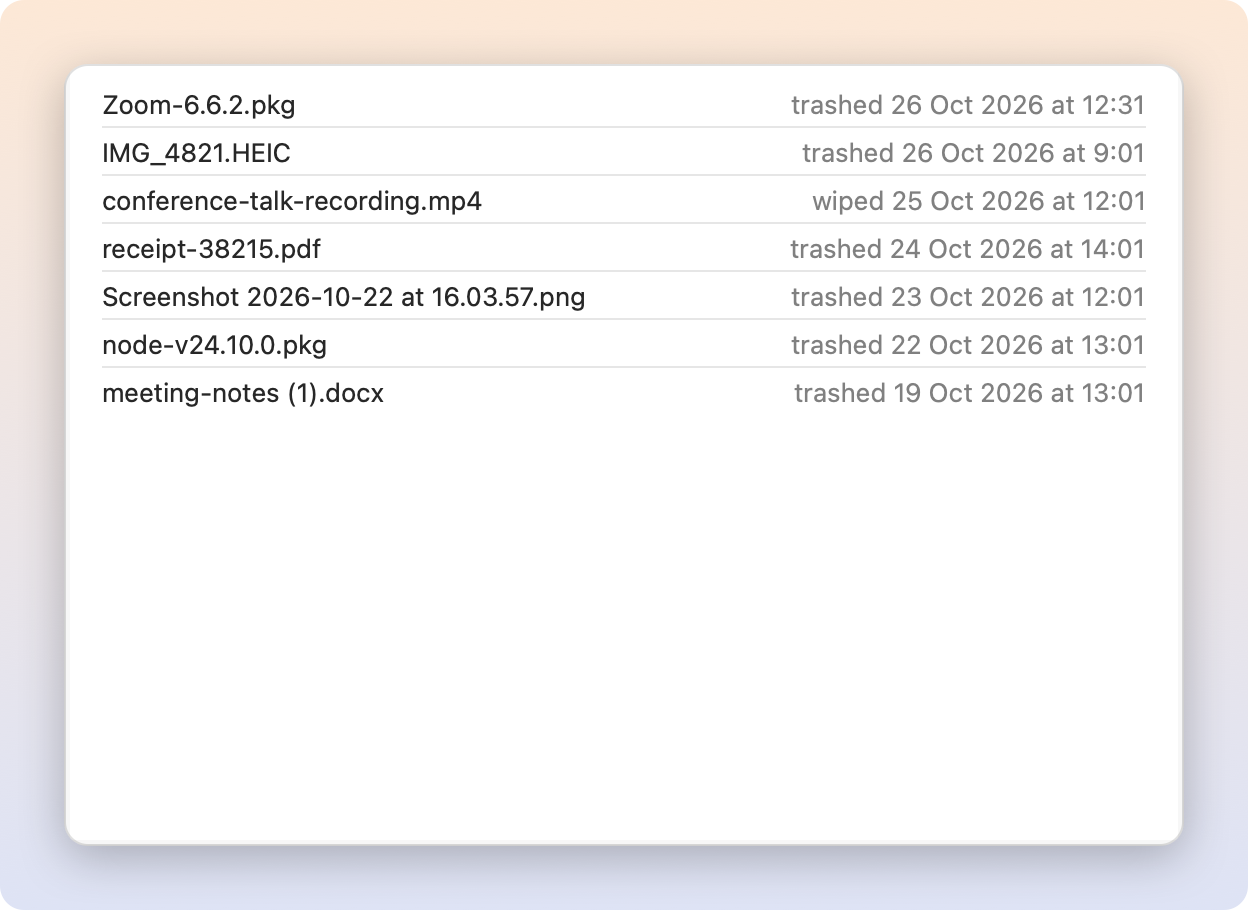
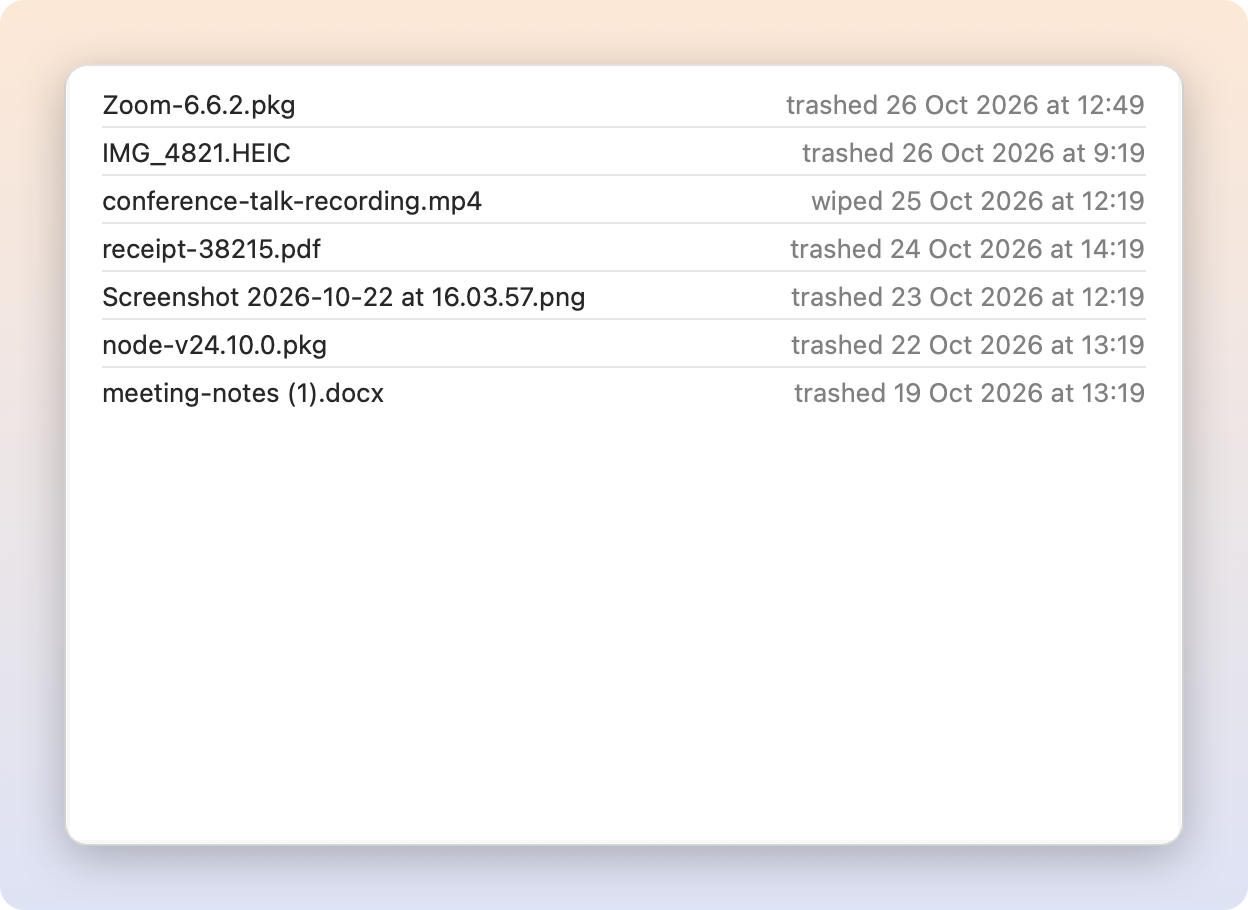
feat(toast): Expire in 15m second button, double-tap Shift to keep

diff --git a/Sources/BurndownCore/Models.swift b/Sources/BurndownCore/Models.swift
@@ -101,10 +101,13 @@ public struct ScopeDefaults: Codable, Sendable, Equatable {
 }
 
 public enum SecondButton: String, Codable, Sendable, CaseIterable {
-    case expireNow, snooze, reveal
+    case expireSoon, expireNow, snooze, reveal
 
+    /// Name in the settings picker. The toast label for `.expireSoon` includes the minutes, see
+    /// `BurndownSettings.secondButtonLabel`.
     public var defaultLabel: String {
         switch self {
+        case .expireSoon: "Expire soon"
         case .expireNow: "Expire now"
         case .snooze: "Snooze"
         case .reveal: "Reveal"
@@ -120,13 +123,26 @@ public struct BurndownSettings: Codable, Sendable, Equatable {
     /// 0 = never auto-dismiss.
     public var toastSeconds: Double = 8
     public var keepLabel = "Keep"
-    public var secondButton = SecondButton.expireNow
+    public var secondButton = SecondButton.expireSoon
     public var secondLabel: String?
     public var snoozeDays: Double = 7
+    /// What "Expire soon" shortens a file's remaining time to.
+    public var expireSoonMinutes: Double = 15
+    /// Double-tap Shift while a toast is showing to keep the newest file.
+    public var shiftKeeps = true
     /// Show the screenshot toast when the thumbnail appears rather than when the file is written.
     public var screenshotEarlyToast = true
 
     public init() {}
+
+    /// Text for the toast's second button: the custom label, else one that reflects the action.
+    public var secondButtonLabel: String {
+        if let secondLabel, !secondLabel.isEmpty { return secondLabel }
+        guard secondButton == .expireSoon else { return secondButton.defaultLabel }
+        let m = Int(expireSoonMinutes.rounded())
+        let span = m >= 60 ? (m % 60 == 0 ? "\(m / 60)h" : "\(m / 60)h \(m % 60)m") : "\(m)m"
+        return "Expire in \(span)"
+    }
 
     // Every key is optional so state saved by an older version still loads.
     public init(from decoder: Decoder) throws {
@@ -139,8 +155,12 @@ public struct BurndownSettings: Codable, Sendable, Equatable {
         toastSeconds = try c.decodeIfPresent(Double.self, forKey: .toastSeconds) ?? d.toastSeconds
         keepLabel = try c.decodeIfPresent(String.self, forKey: .keepLabel) ?? d.keepLabel
         secondButton = try c.decodeIfPresent(SecondButton.self, forKey: .secondButton) ?? d.secondButton
+        // State saved before "Expire in N minutes" existed used "Expire now" as its default; move it over.
+        if secondButton == .expireNow, !c.contains(.expireSoonMinutes) { secondButton = .expireSoon }
         secondLabel = try c.decodeIfPresent(String.self, forKey: .secondLabel)
         snoozeDays = try c.decodeIfPresent(Double.self, forKey: .snoozeDays) ?? d.snoozeDays
+        expireSoonMinutes = try c.decodeIfPresent(Double.self, forKey: .expireSoonMinutes) ?? d.expireSoonMinutes
+        shiftKeeps = try c.decodeIfPresent(Bool.self, forKey: .shiftKeeps) ?? d.shiftKeeps
         screenshotEarlyToast = try c.decodeIfPresent(Bool.self, forKey: .screenshotEarlyToast) ?? d.screenshotEarlyToast
     }
 

diff --git a/Sources/Burndown/AppModel.swift b/Sources/Burndown/AppModel.swift
@@ -12,6 +12,7 @@ final class AppModel {
         didSet {
             persist()
             let old = oldValue.settings, new = state.settings
+            ToastCenter.shared.shiftKeeps = new.shiftKeeps
             if old.screenshots.enabled != new.screenshots.enabled
                 || old.screenshotEarlyToast != new.screenshotEarlyToast { syncScreenshots() }
             if old.paused && !new.paused { expireDue() }
@@ -58,6 +59,7 @@ final class AppModel {
     }
 
     func start() {
+        ToastCenter.shared.shiftKeeps = state.settings.shiftKeeps
         let watcher = DownloadsWatcher(directory: downloadsDir) { [weak self] url in
             self?.track(url, scope: .download)
         }
@@ -128,7 +130,7 @@ final class AppModel {
             placeholder: "📸",
             message: "\(name) will be \(action.pastTense) after \(life.phrase)",
             keepLabel: s.keepLabel,
-            secondLabel: s.secondLabel ?? s.secondButton.defaultLabel,
+            secondLabel: s.secondButtonLabel,
             dismissAfter: s.toastSeconds,
             onKeep: { [weak self] in self?.resolveShot(id, .keep) },
             onSecond: { [weak self] in self?.resolveShot(id, .second) }))
@@ -152,7 +154,7 @@ final class AppModel {
 
     private func showToast(for item: TrackedItem, lifetime: Lifetime) {
         let s = state.settings
-        let secondLabel = s.secondLabel ?? s.secondButton.defaultLabel
+        let secondLabel = s.secondButtonLabel
         let url = URL(fileURLWithPath: item.path)
         let handle = ToastCenter.shared.show(ToastModel(
             fileURL: url,
@@ -179,7 +181,7 @@ final class AppModel {
             fileURL: file,
             message: "\(file.lastPathComponent) will be \(d.action.pastTense) after \(d.lifetime.phrase)",
             keepLabel: s.keepLabel,
-            secondLabel: s.secondLabel ?? s.secondButton.defaultLabel,
+            secondLabel: s.secondButtonLabel,
             dismissAfter: s.toastSeconds,
             onKeep: {},
             onSecond: {}))
@@ -199,6 +201,7 @@ final class AppModel {
 
     func secondAction(_ id: UUID) {
         switch state.settings.secondButton {
+        case .expireSoon: expireSoon(id)
         case .expireNow: expireNow(id)
         case .snooze: snooze(id)
         case .reveal: reveal(id)
@@ -217,6 +220,14 @@ final class AppModel {
             guard alert.runModal() == .alertFirstButtonReturn else { return }
         }
         process(item, reason: "expired now")
+    }
+
+    /// Shortens the file's remaining time to the configured number of minutes (never lengthens it).
+    func expireSoon(_ id: UUID) {
+        guard let i = state.items.firstIndex(where: { $0.id == id }) else { return }
+        let soon = Date().addingTimeInterval(state.settings.expireSoonMinutes * 60 / Self.timeScale)
+        state.items[i].due = min(state.items[i].due ?? .distantFuture, soon)
+        rearm()
     }
 
     func snooze(_ id: UUID) {

diff --git a/Sources/Burndown/Toast/ToastPanel.swift b/Sources/Burndown/Toast/ToastPanel.swift
@@ -30,6 +30,9 @@ final class ToastCenter {
     static let spacing: CGFloat = -8
 
     private var toasts: [Toast] = []
+    /// Double-tap Shift keeps the newest toast's file; set from settings.
+    var shiftKeeps = true
+    private var shiftWatcher: Task<Void, Never>?
 
     private init() {}
 
@@ -41,6 +44,7 @@ final class ToastCenter {
             dismiss(oldest, relayout: false)
         }
         layout(appearing: toast)
+        startShiftWatcher()
         return ToastHandle(setPreview: { [weak toast] image in toast?.preview.image = image })
     }
 
@@ -49,6 +53,38 @@ final class ToastCenter {
         toasts.remove(at: i)
         toast.close()
         if relayout { layout(appearing: nil) }
+        if toasts.isEmpty { shiftWatcher?.cancel(); shiftWatcher = nil }
+    }
+
+    /// Watches for a double tap of Shift, but only while a toast is on screen. The current modifier
+    /// state can be read without any permission, so this polls briefly instead of installing a global
+    /// key monitor (which would need Input Monitoring).
+    private func startShiftWatcher() {
+        guard shiftWatcher == nil else { return }
+        shiftWatcher = Task { @MainActor [weak self] in
+            var shiftDown = false
+            var lastPress: Date?
+            while !Task.isCancelled {
+                try? await Task.sleep(for: .milliseconds(25))
+                guard let self, self.shiftKeeps else { continue }
+                let flags = NSEvent.modifierFlags.intersection(.deviceIndependentFlagsMask)
+                if flags != [] && flags != [.shift] { lastPress = nil; shiftDown = false; continue }
+                let down = flags == [.shift]
+                guard down != shiftDown else { continue }
+                shiftDown = down
+                guard down else { continue }
+                let now = Date()
+                if let last = lastPress, now.timeIntervalSince(last) < 0.45,
+                   // No key was typed between the two taps, so this is not capitalisation.
+                   CGEventSource.secondsSinceLastEventType(.combinedSessionState, eventType: .keyDown)
+                    > now.timeIntervalSince(last) {
+                    lastPress = nil
+                    self.toasts.first?.keepFromShortcut()
+                } else {
+                    lastPress = now
+                }
+            }
+        }
     }
 
     private func layout(appearing: Toast?) {
@@ -130,6 +166,8 @@ private final class Toast {
             panel.close()
         }
     }
+
+    func keepFromShortcut() { finish(model.onKeep) }
 
     private func finish(_ action: (@MainActor () -> Void)?) {
         action?()

diff --git a/Sources/Burndown/Settings/SettingsView.swift b/Sources/Burndown/Settings/SettingsView.swift
@@ -27,6 +27,9 @@ private struct GeneralTab: View {
         Form {
             Toggle("Launch at login", isOn: $model.launchAtLogin)
             Toggle("Pause tracking", isOn: $model.settings.paused)
+            Toggle("Double-tap Shift to keep", isOn: $model.settings.shiftKeeps)
+            Text("While a toast is showing, tapping Shift twice keeps the newest file.")
+                .font(.caption).foregroundStyle(.secondary)
 
             Section("Toast") {
                 Picker("Auto-dismiss", selection: $model.settings.toastSeconds) {
@@ -40,7 +43,11 @@ private struct GeneralTab: View {
                 TextField("Second button label", text: Binding(
                     get: { model.settings.secondLabel ?? "" },
                     set: { model.settings.secondLabel = $0.isEmpty ? nil : $0 }),
-                    prompt: Text(model.settings.secondButton.defaultLabel))
+                    prompt: Text(model.settings.secondButtonLabel))
+                if model.settings.secondButton == .expireSoon {
+                    Stepper("Expire in \(Int(model.settings.expireSoonMinutes)) minutes",
+                            value: $model.settings.expireSoonMinutes, in: 1...720, step: 5)
+                }
                 if model.settings.secondButton == .snooze {
                     Stepper("Snooze by \(Int(model.settings.snoozeDays)) days",
                             value: $model.settings.snoozeDays, in: 1...90)

diff --git a/Tests/BurndownCoreTests/CoreTests.swift b/Tests/BurndownCoreTests/CoreTests.swift
@@ -147,6 +147,26 @@ import Testing
         #expect(s.screenshotEarlyToast)
         #expect(s.downloads.lifetime == .days(14))
     }
+
+    @Test func oldExpireNowDefaultMovesToExpireSoon() throws {
+        let old = try JSONDecoder().decode(BurndownSettings.self, from: Data(#"{"secondButton":"expireNow"}"#.utf8))
+        #expect(old.secondButton == .expireSoon)
+        let chosen = try JSONDecoder().decode(
+            BurndownSettings.self, from: Data(#"{"secondButton":"expireNow","expireSoonMinutes":15}"#.utf8))
+        #expect(chosen.secondButton == .expireNow)
+    }
+
+    @Test func secondButtonLabels() {
+        var s = BurndownSettings()
+        #expect(s.secondButtonLabel == "Expire in 15m")
+        s.expireSoonMinutes = 90
+        #expect(s.secondButtonLabel == "Expire in 1h 30m")
+        s.secondLabel = "Bin it"
+        #expect(s.secondButtonLabel == "Bin it")
+        s.secondLabel = nil
+        s.secondButton = .snooze
+        #expect(s.secondButtonLabel == "Snooze")
+    }
 }
 
 @Suite struct PutBackTests {

diff --git a/Sources/Burndown/DocsRender.swift b/Sources/Burndown/DocsRender.swift
@@ -226,7 +226,7 @@ enum DocsRender {
         pdfPreview.image = waitFor { await ImagePreview.thumbnail(of: pdf) }
         pngPreview.image = waitFor { await ImagePreview.thumbnail(of: png) }
         func toast(_ url: URL, _ message: String, _ preview: ToastPreview) -> some View {
-            ToastView(model: ToastModel(fileURL: url, message: message, keepLabel: "Keep", secondLabel: "Expire now",
+            ToastView(model: ToastModel(fileURL: url, message: message, keepLabel: "Keep", secondLabel: "Expire in 15m",
                                         dismissAfter: 8, onKeep: {}, onSecond: {}),
                       hover: ToastHover(), preview: preview, onKeep: {}, onSecond: {}, onClose: {})
                 // The real card is Liquid Glass, which does not render offscreen: stand in a light card.

diff --git a/Sources/Burndown/Toast/ToastView.swift b/Sources/Burndown/Toast/ToastView.swift
@@ -19,7 +19,7 @@ final class ToastPreview {
 struct ToastView: View {
     static let width: CGFloat = 344
     static let radius: CGFloat = 20
-    static let actionWidth: CGFloat = 78
+    static let actionWidth: CGFloat = 92
 
     let model: ToastModel
     let hover: ToastHover
@@ -109,6 +109,7 @@ struct ToastView: View {
             Text(label)
                 .font(.system(size: 13))
                 .lineLimit(1)
+                .minimumScaleFactor(0.8)
                 .frame(maxWidth: .infinity, maxHeight: .infinity)
                 .contentShape(Rectangle())
         }

diff --git a/README.md b/README.md
@@ -21,14 +21,14 @@
 <p align="center">
   <img src="docs/images/toast.png" width="424" alt="Two Burndown toasts:
   a screenshot that will be trashed after 3 days and boarding-pass.pdf that
-  will be trashed after 14 days, each with Keep and Expire now buttons">
+  will be trashed after 14 days, each with Keep and Expire in 15m buttons">
 </p>
 
 When a file lands in `~/Downloads`, Burndown shows a small toast in the
 corner of the screen: **boarding-pass.pdf - Will be trashed after 14 days**,
-with **Keep** and **Expire now** buttons. Ignore it and the file goes to the
-Trash in 14 days. Click **Keep** and it stays. It can do the same for macOS
-screenshots, wherever you save them.
+with **Keep** and **Expire in 15m** buttons. Ignore it and the file goes to
+the Trash in 14 days. Click **Keep** (or double-tap Shift) and it stays. It
+can do the same for macOS screenshots, wherever you save them.
 
 It is a native Swift app (SwiftUI and AppKit, no dependencies), event-driven
 rather than polling, and it makes no network connections.
@@ -59,8 +59,11 @@ rather than polling, and it makes no network connections.
   that went to the Trash.
 - **Pause** stops tracking and expiry; the menu bar icon changes so you can
   see it is paused.
+- **Double-tap Shift** while a toast is showing to keep the newest file,
+  without reaching for the mouse. It can be turned off in Settings > General.
 - **Customisable toast**: auto-dismiss time, button labels, and a second
-  button that can be Expire now, Snooze (by a number of days) or Reveal.
+  button that can be Expire in N minutes (the default, 15), Expire now,
+  Snooze (by a number of days) or Reveal.
 - **Launch at login**, registered automatically the first time it runs from
   `/Applications`, and easy to turn off.
 
@@ -231,8 +234,8 @@ macOS writes a screenshot to disk only when its floating thumbnail goes away,
 about 5 seconds after the capture. With **Show it as soon as the thumbnail
 appears** on, Burndown watches the system log for the capture event and shows
 the toast straight away with a camera placeholder, then swaps in the real
-preview when the file lands. Keep or Expire now pressed before then is
-applied as soon as the file exists.
+preview when the file lands. Keep or the second button pressed before then
+is applied as soon as the file exists.
 
 ## Privacy
 
